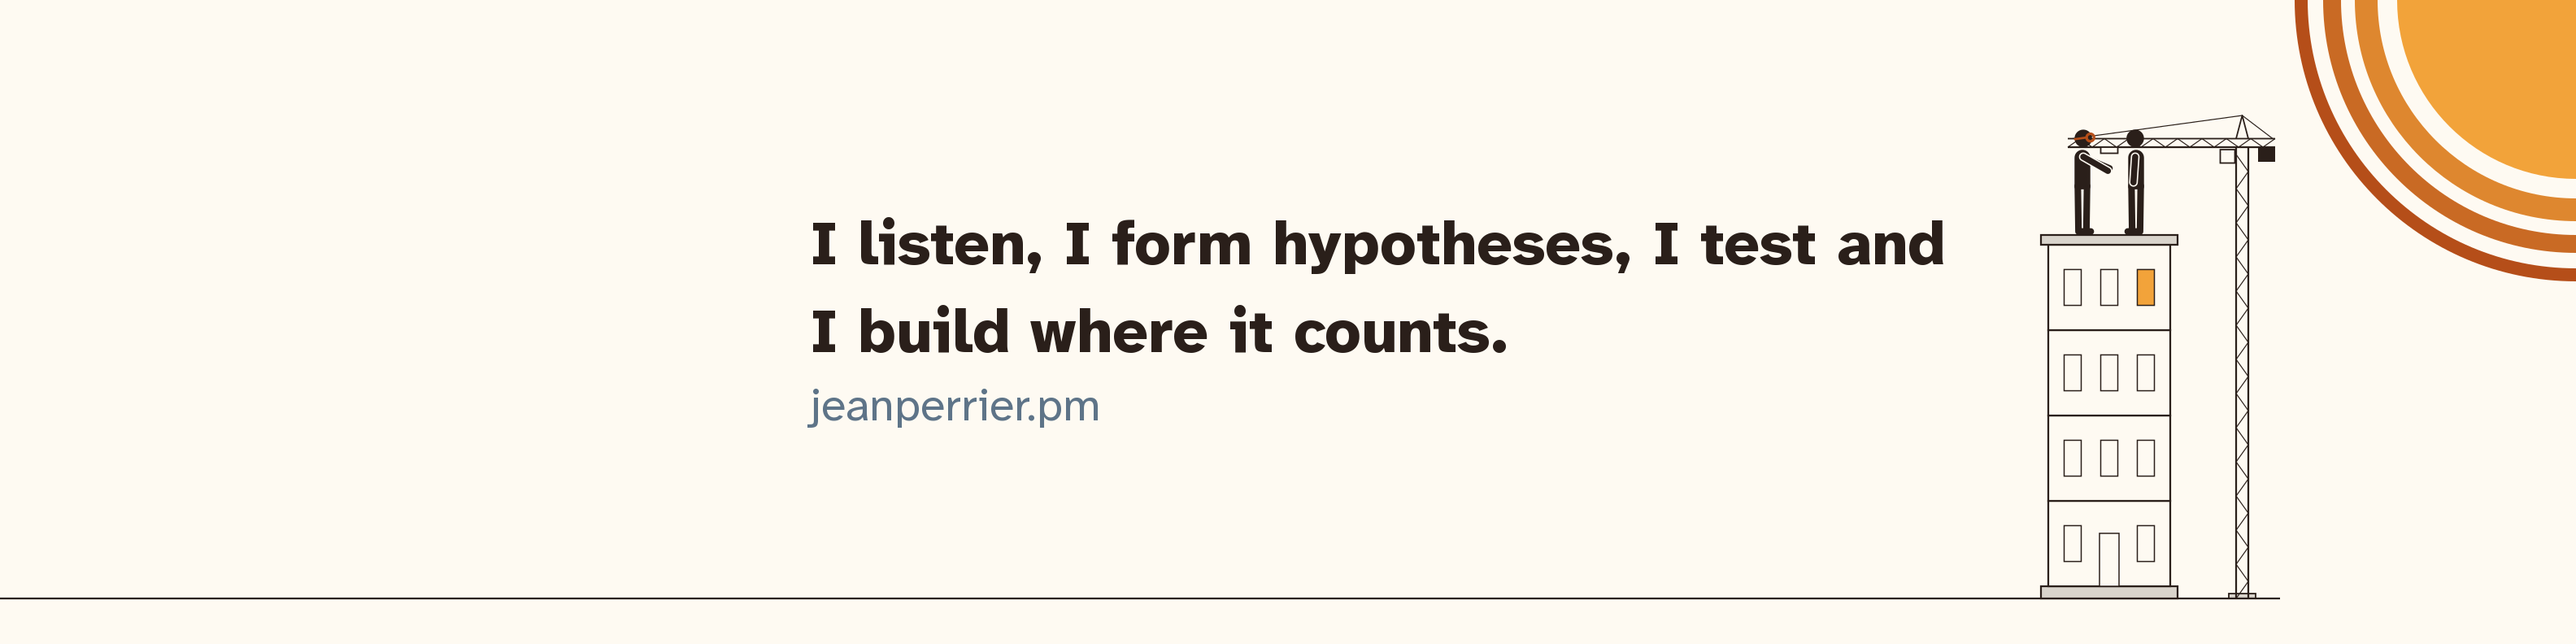
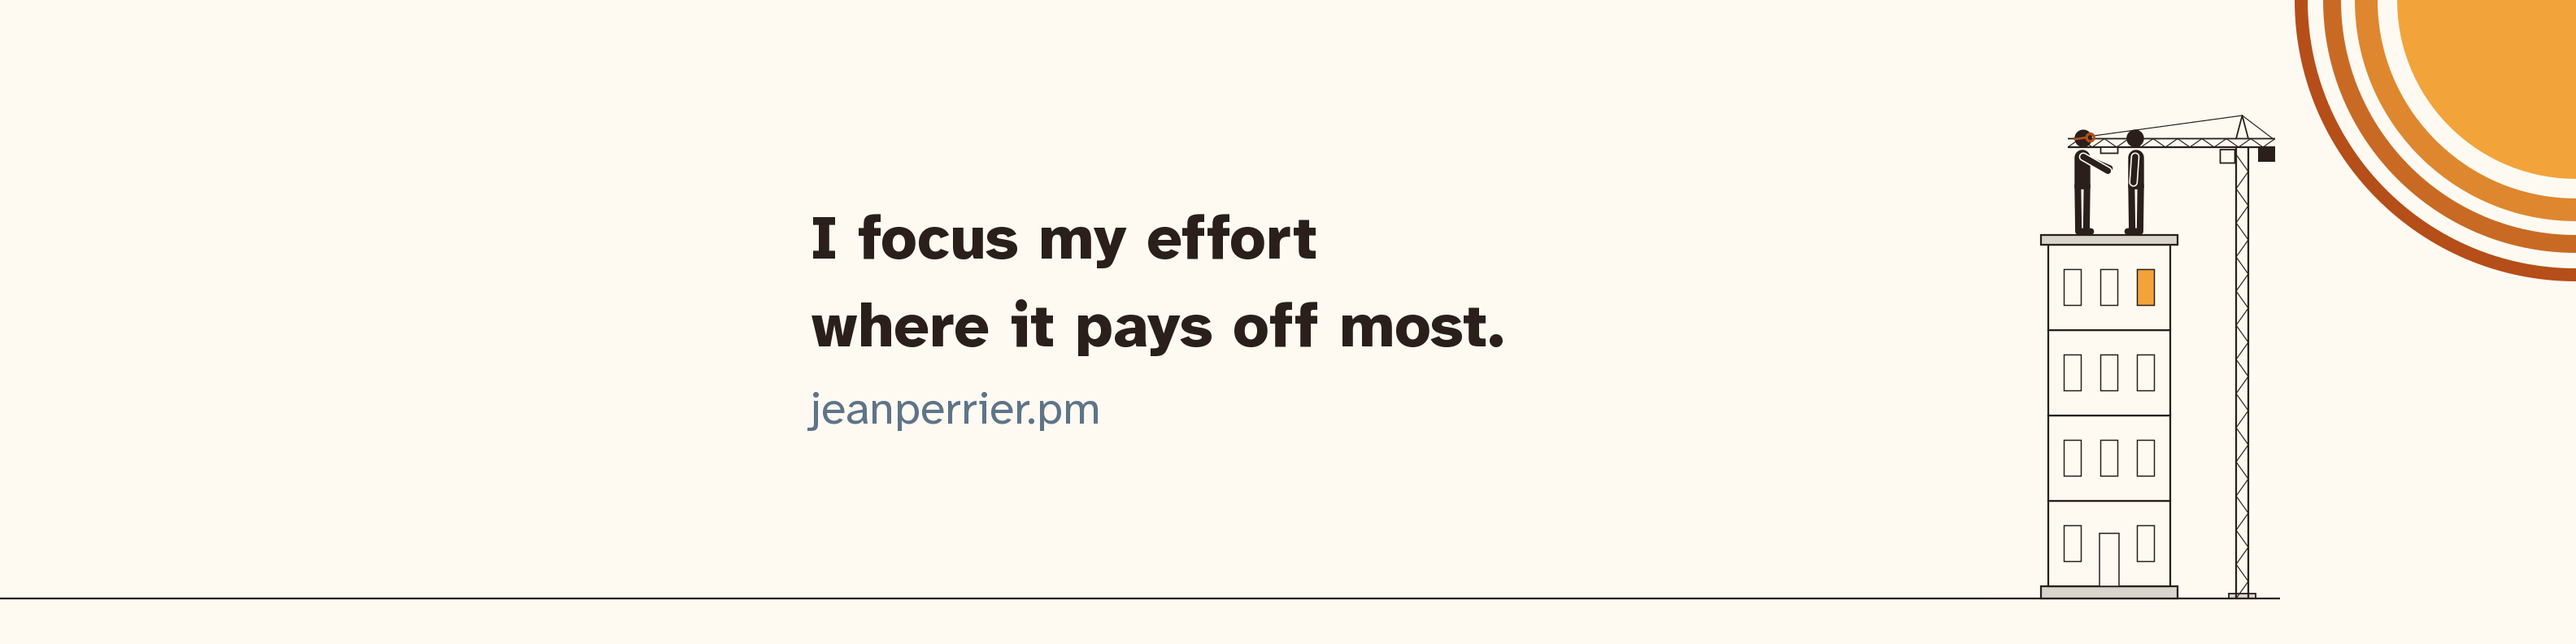
0115 clos : nouvelle phrase d'accroche « Je concentre l'effort là où il rapporte le plus. » (EN « I focus my effort where it pays off most. »), la méthode passe dans À propos ; accueil, À propos, texte alternatif, aperçus Open Graph et bannières LinkedIn, FR et EN ; réserve du titre 3 lignes puis 2 

Changed region(s): [[0.3125, 0.3333, 0.7812, 0.4242], [0.3125, 0.4545, 0.5938, 0.5455], [0.3125, 0.6061, 0.4375, 0.6667]]

diff --git a/src/styles/base.css b/src/styles/base.css
@@ -172,12 +172,16 @@ svg {
      du soleil, et la coupe gloutonne poussait la troisième ligne sur
      l'équipe. À partir de 960 px, le soleil n'atteint jamais le titre : le
      titre garde sa largeur, ses lignes s'équilibrent (planche de 0057). */
-  /* Quatre lignes réservées quelle que soit la langue : la phrase anglaise
-     tient en trois, et l'équipe, posée sur la dernière ligne, montait
-     jusqu'au soleil. Elle a ainsi la même place en français et en anglais. */
+  /* La réserve du titre, en lignes, quelle que soit la langue : le plus
+     grand nombre de lignes mesuré entre le français et l'anglais (0115,
+     Chromium) : à 960 px, 3 en FR et 3 en EN ; à 1280 et 1440 px, 2 et 2.
+     Entre les deux, la phrase passe à deux lignes, mais sous 1280 px, avec
+     deux lignes, l'équipe posée sur la dernière touchait le soleil : trois
+     lignes jusqu'à 1280 px, deux au-delà (plus bas). L'équipe a ainsi la
+     même place en français et en anglais. */
   .accroche h1 {
     display: flow-root;
-    min-height: calc(4 * 1.08em);
+    min-height: calc(3 * 1.08em);
     /* Jamais sur l'équipe : la colonne du titre s'arrête avant le dessin
        (277 px au plus, plus une marge), quelle que soit la phrase. */
     max-width: min(20ch, calc(100% - 18.5rem));
@@ -191,6 +195,15 @@ svg {
     width: var(--equipe);
     transform: translateY(calc(-0.206 * var(--titre) - 0.631579 * var(--equipe)));
     pointer-events: none;
+  }
+}
+
+/* Deux lignes réservées à partir de 1280 px : la phrase y tient en deux
+   lignes, FR et EN, et l'équipe, posée sur la deuxième, reste à distance du
+   soleil (une vingtaine de pixels). */
+@media (min-width: 1280px) {
+  .accroche h1 {
+    min-height: calc(2 * 1.08em);
   }
 }
 

diff --git a/registre/0115-phrase-accroche-hauteur.md b/registre/0115-phrase-accroche-hauteur.md
@@ -2,7 +2,7 @@
 
 | nature | etape | statut | cout_estime | cout_reel | modele |
 |---|---|---|---|---|---|
-| `chantier` | `contenu` | `en cours` | 100 | | `claude-opus-5-5` |
+| `chantier` | `contenu` | `clos 2026-11-09` | 100 | 462 | `claude-opus-5-5` |
 
 **Demande de Jean (2026-11-09)**, sur le retour d'une proche : la phrase
 « ne me valorise pas suffisamment », elle est « trop terre à terre » et
@@ -47,6 +47,11 @@ Vérifier à 960, 1280 et 1440 px.
   « maximiser l'impact » (ton de consultant).
 
 - 2026-11-09, Jean : go sur la spec ci-dessous.
+- 2026-11-09, Jean, après le code : « là où » lié par une insécable dans le
+  titre FR (sinon « là / où » à 1280 et 1440 px) ; bannière LinkedIn FR coupée
+  à la main après « l'effort » ; le vide d'une ligne sous le titre entre 960
+  et 1279 px est gardé (réserve de 3 lignes de 960 à 1279 px, 2 au-delà :
+  l'équipe reste à 18 px au moins du soleil, à la même place en FR et en EN).
 
 ## Spec
 
@@ -79,3 +84,48 @@ porte la nouvelle phrase.
 **État de référence** (2026-11-09, worktree, `npx astro build --outDir
 .dist-ref` puis `DIST=.dist-ref npm test`) : build OK, 246 tests, 246 au
 vert, 0 rouge.
+
+## Tri du relevé des lourdeurs (Jean, 2026-11-09)
+
+Relevé par un agent qui n'a pas écrit la phrase (0072), 13 remarques, triées
+en trois séries avant / après :
+- À propos, méthode : « J’écoute, je pose des hypothèses, je teste, puis je
+  construis. » / « I listen, form hypotheses, test, then build. » (plus
+  d'écho avec « là où il rapporte le plus », un seul « I »).
+- Titre EN : « I focus my effort where it pays off most. » ; « l’effort »
+  gardé en FR.
+- Images FR à l'apostrophe courbe ; aperçu FR coupé « Je concentre /
+  l’effort là où / il rapporte le plus. », EN en miroir ; bannières coupées
+  après « effort ».
+- Texte alternatif : « Un bâtiment et sa grue, deux personnages sur le toit,
+  sous le soleil. » / « A building and its crane, two people on the roof,
+  with the sun behind. »
+- Traités ici, à la demande de Jean, bien qu'antérieurs : « je dirige »
+  partout (accueil compris) ; l'équipe « que je vois chacun en entretien
+  individuel toutes les semaines » / « whom I meet one-to-one every week » ;
+  les services publics avec un verbe et une explication chacun, FR et EN ;
+  EN « I use AI when it meets a specific need ».
+
+## Clôture
+
+**Coût réel** : 462 (milliers de tokens), somme des quatre sous-agents relevés
+au harnais : tests 102 (trois tours), code 146, revue 108, relevé 107. La
+session principale (questionnaire, recherche sur les accroches de Heads of
+Product et de CPO, petites corrections après tri) n'est pas mesurable.
+Ratio 4,6 : six séries de questions pour la phrase, une recherche demandée
+en cours de route, et un tri qui a élargi le chantier à toute la page
+À propos.
+
+**Revue** : un tour, PASSE ; cinq cassures, une seule invisible (l'insécable
+de « là où »), couverte depuis par un test. Aucune remontée.
+
+**Vérification** : `npx astro build --outDir .dist-v` puis `DIST=.dist-v npm
+test` : 256 tests, 256 au vert (246 de référence + 10 dans
+`tests/accroche.test.mjs`). Accroche mesurée et capturée à 960, 1280 et
+1440 px, FR et EN : 3 lignes à 960 px, 2 au-delà, l'équipe posée sur la
+dernière ligne, rien ne touche le soleil. Réserve de hauteur : 3 lignes de
+960 à 1279 px, 2 à partir de 1280 px.
+
+**Hors périmètre, laissé** : `ops/images/accueil/planche.mjs` (outil de
+maquette, phrase et sous-titre périmés) ; `redaction/a-propos.fr.md`, le
+brouillon d'origine, ne suit plus la page publiée.
